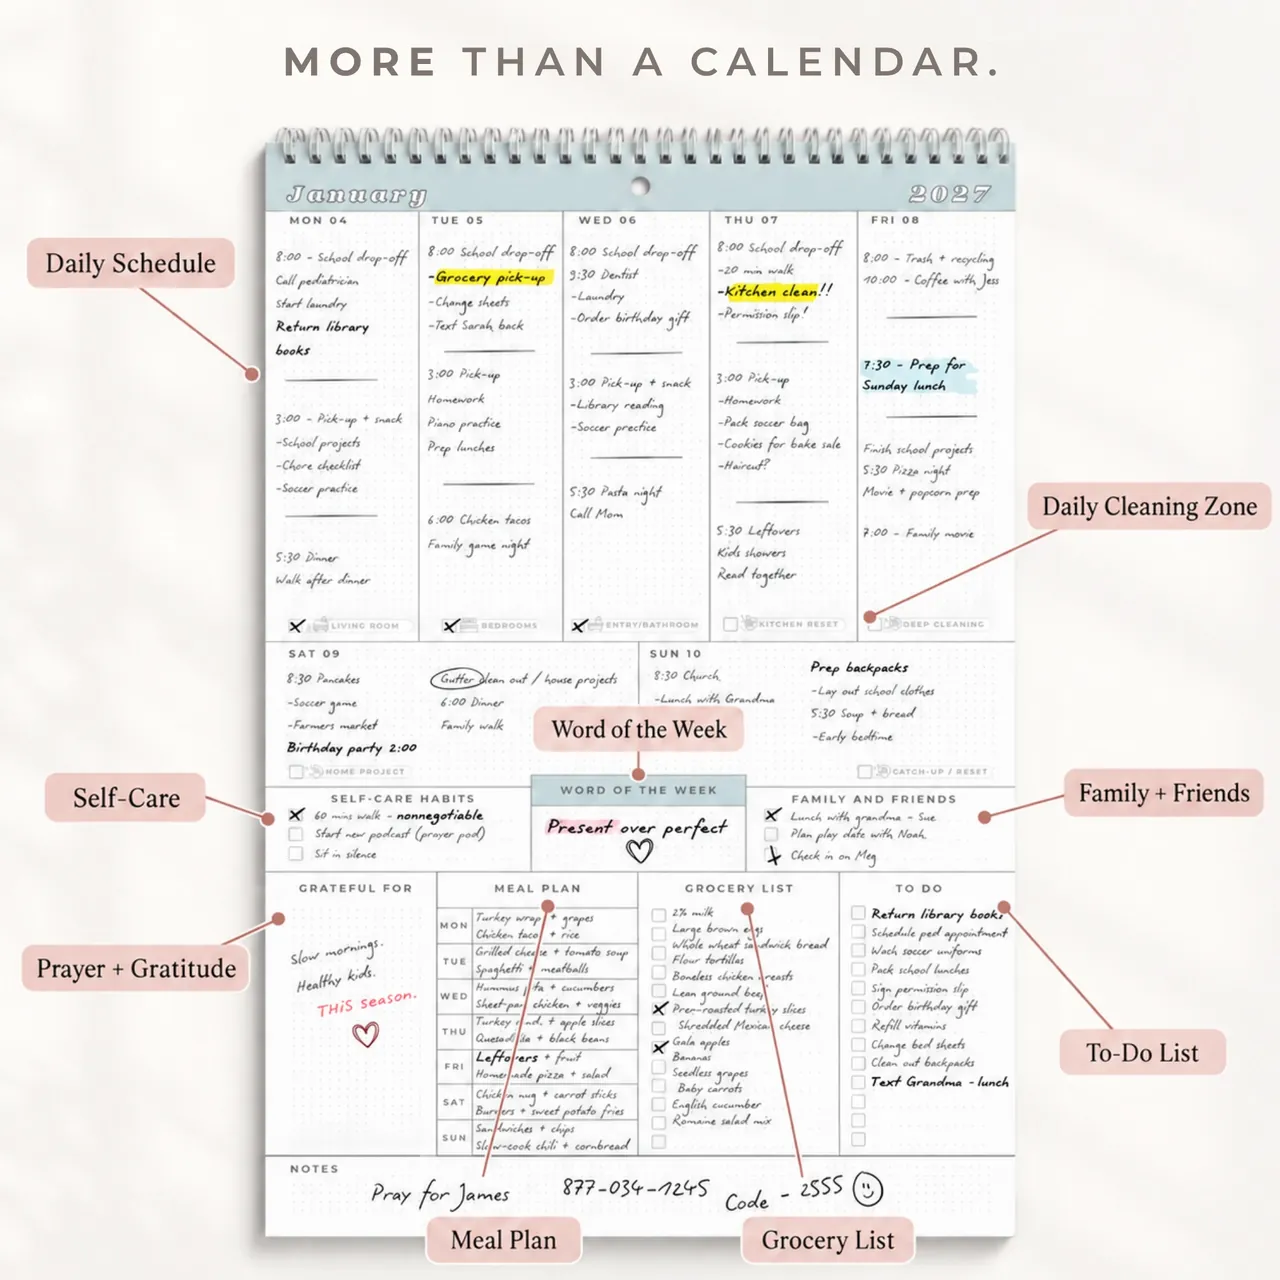
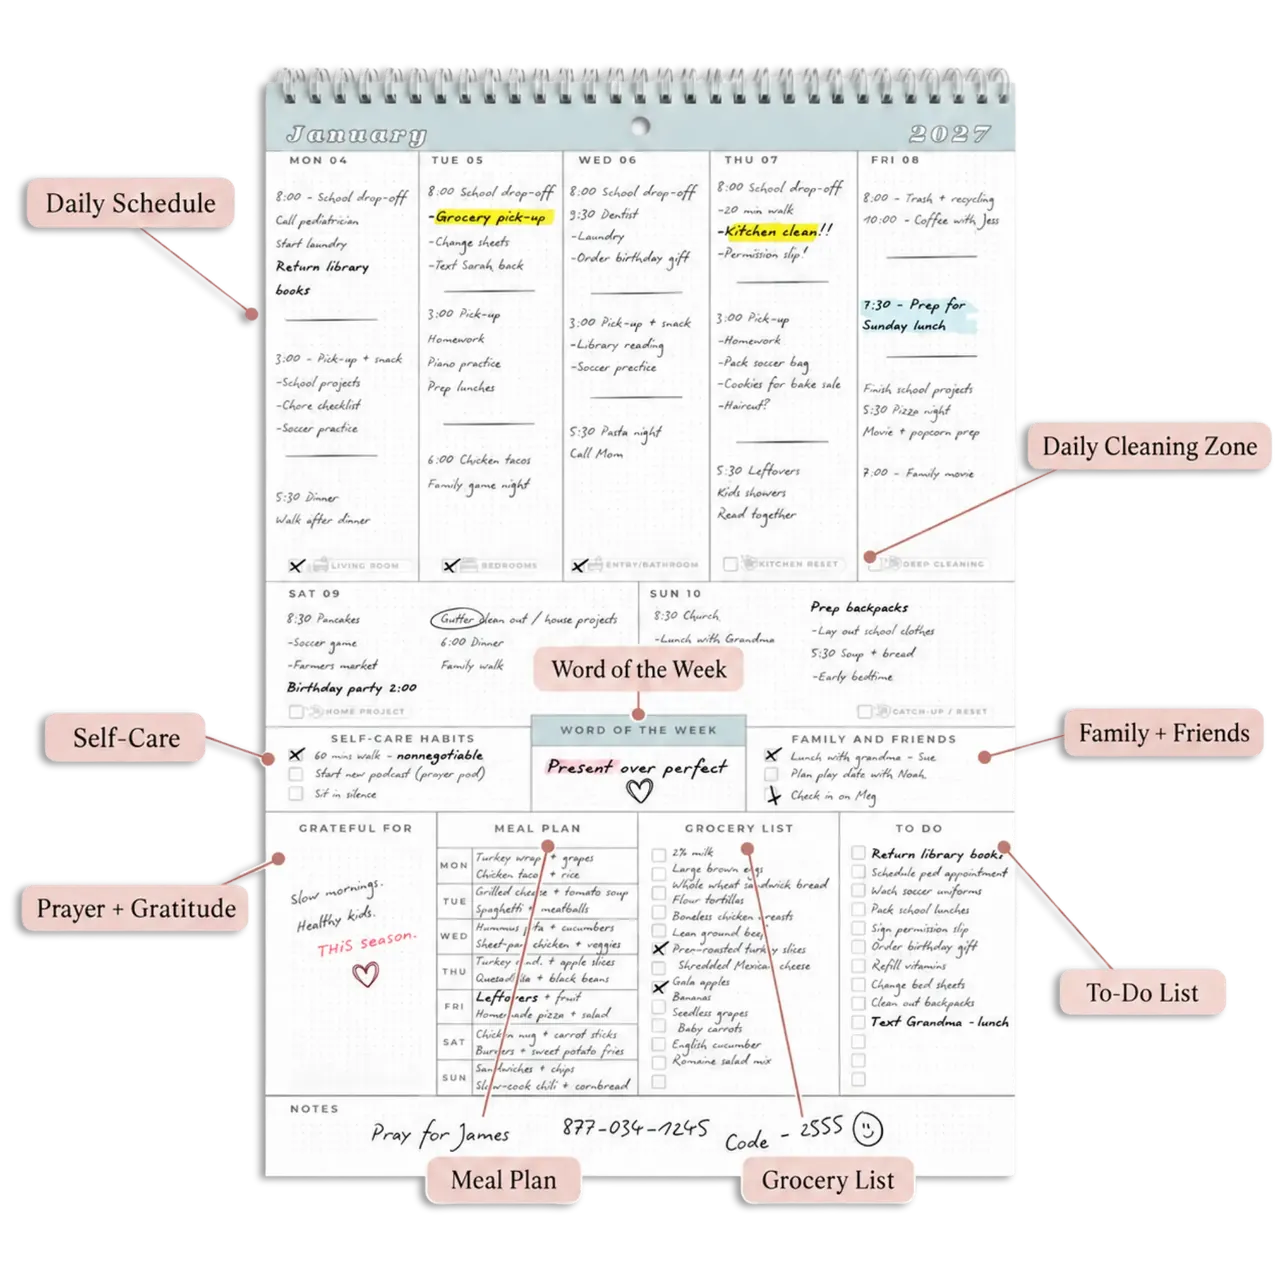
Use the transparent-background calendar features image
Replaces calendar-features (640/960/1280) with the new transparent version of
Etsy listing image 02 (source kept as design/etsy-listing/02-transparent.webp).
Its frames on Reorder ("Your week, all in one place") and the homepage drop
their fill and border so it sits on the page background. /calendar reuses the
same files inside its photo grid.

Claude-Session: https://claude.ai/code/session_01S8uBkJRb3mntpfWii4okRD

Changed region(s): [[0.0, 0.0312, 1.0, 1.0], [0.8125, 0.75, 0.9688, 0.8438]]

diff --git a/README.md b/README.md
@@ -26,7 +26,7 @@ npm run verify    # build + check:site + tests
 | --- | --- |
 | **Cleaning tasks** (daily essentials, Mon–Thu focus, weekend copy, 12-month rotation) | `src/data/cleaning.ts` |
 | **Reorder: prices, editions (dates once confirmed), Etsy listing URLs** | `src/config.ts` → `CALENDAR_OPTIONS` (a button stays disabled until its `etsyUrl` is a real `etsy.com/listing/…` URL; update `editions` each new calendar year) |
-| Reorder photos | `public/images/reorder/`, resized 640/960/1280 from `design/etsy-listing/` 11 (hero), 02 (features), 05 (calendar + app). All 12 Etsy listing images live in `design/etsy-listing/`. Not precached, so the offline install stays small. |
+| Reorder photos | `public/images/reorder/`, resized 640/960/1280 from `design/etsy-listing/` 11 (hero), 02-transparent (features; transparent background, so its frame has no fill or border), 05 (calendar + app). All 12 Etsy listing images live in `design/etsy-listing/`. Not precached, so the offline install stays small. |
 | Public site photos | `public/images/site/`: `family-kitchen` (listing 03, cropped above its caption), `calendar-on-wall` (01), `calendar-specs` (07), `calendar-sets` (08), each 640/960/1280; `og-calendar.jpg` (11, cropped to 1200 × 630, the default share image). `app-today` / `app-week` (390/780) are real screenshots of the built app at 390 × 844 with sample checkmarks — retake them when those screens change. Public pages also reuse `public/images/reorder/`. |
 | Logo (badge, favicon, app icons) | `public/brand/`, `public/favicon.ico`, `public/icons/` (original in `design/logo/`) |
 | Zone icons (daily, Mon–Thu rooms, weekend) | `public/icons/zones/*.png` (originals in `design/zone-icons/`), assigned in `src/data/cleaning.ts` |
